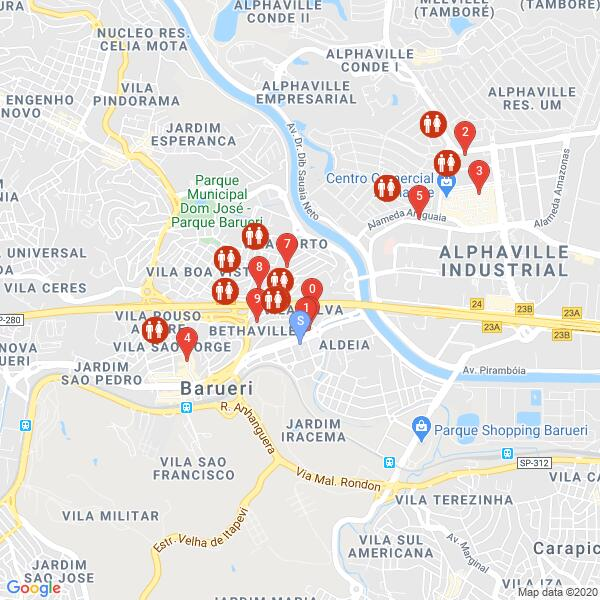
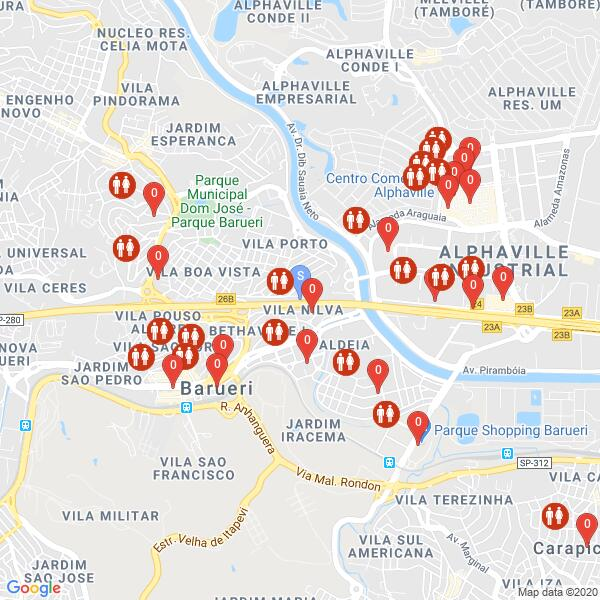
counter

diff --git a/maps/app.py b/maps/app.py
@@ -157,16 +157,16 @@ def sms_reply():
             else:
                 google_places = googleMapsPlaces.get(req)
                 origem = "rodovia " + str(street_name) + " km " + str(km)
-                places_dict, url = flow(origem, google_places)
+                places_dict, picture_url = flow(origem, google_places)
                 if len(places_dict) == 0:
                     reply = "Infelizmente, não encontrei nada perto de você. Sugiro que dirija mais" \
                             " um pouco, e me chame novamente!"
                 else:
                     session['dicas'] = places_dict
-                    reply = map_reply(req) + str(places_dict.get("1"))
+                    reply = map_reply(req) + str(places_dict.get("0"))
                     resp = MessagingResponse()
                     msg = resp.message(reply)
-                    msg.media(url)
+                    msg.media(str(picture_url))
                     return str(resp)
         elif step == 4:
             selected = ''

diff --git a/maps/main.py b/maps/main.py
@@ -46,7 +46,7 @@ def flow(origem,lugares=[]):
             time = distance['rows'][0]['elements'][0]['duration']['text']
             names[str(count)] = [name, dest_address, time]
             pins_number +='&markers=color:red|label:'+str(count)+'|size:mid|'+local
-
+    count += 1
 
     #Gerando o mapa
     r = requests.get(url+'center='+origem+'&zoom=14&format=jpg&size=600x600&markers=color:blue|label:S|'
